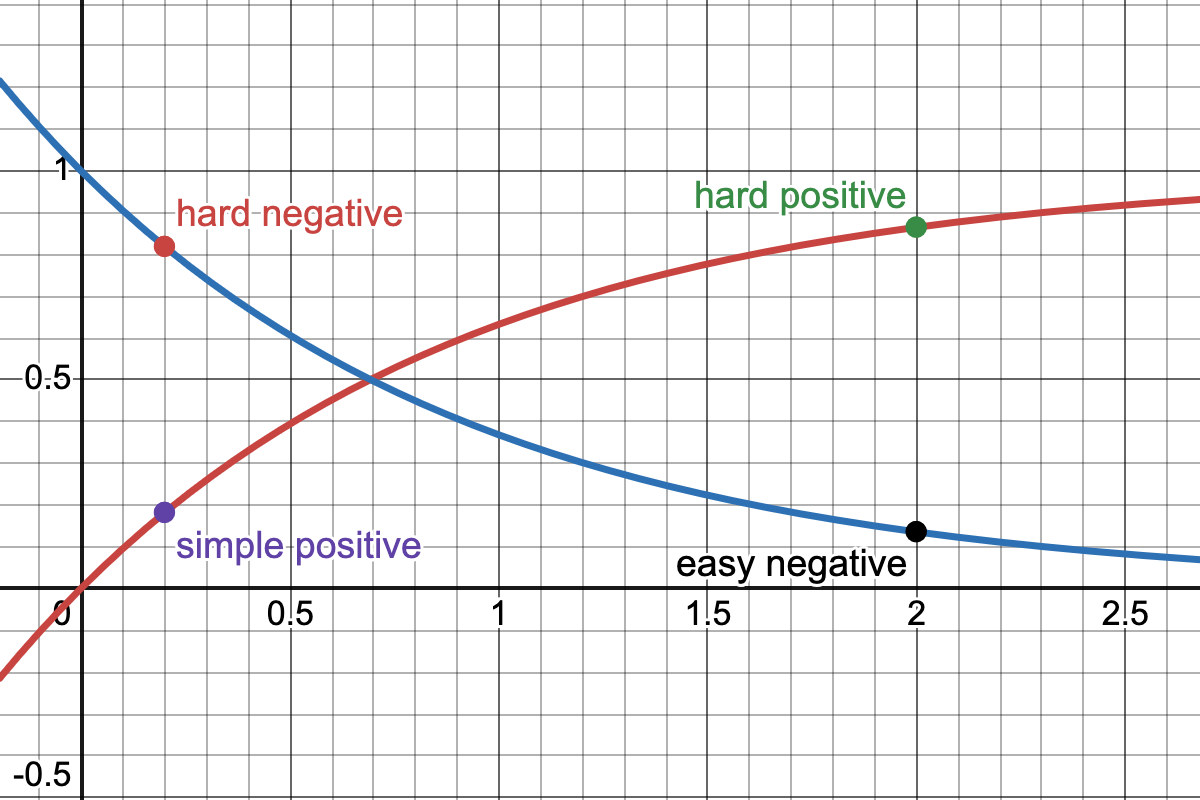
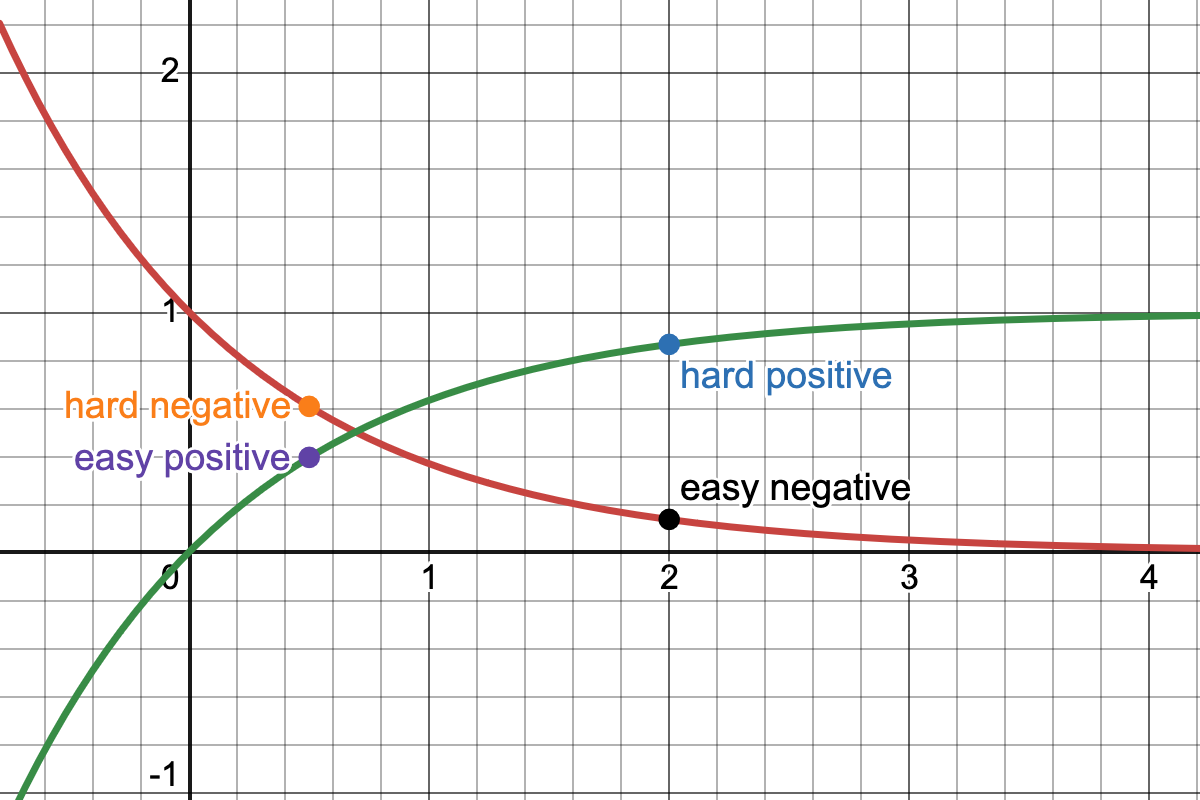
feat: Improve motivation for distance image

Changed region(s): [[0.0, 0.0, 1.0, 1.0]]

diff --git a/sections/introduction/motivation.tex b/sections/introduction/motivation.tex
@@ -19,10 +19,10 @@ leading to larger updates in the model's representation $f_{\theta}(x)$.
 
 \begin{figure}[!htb] % h = here, t = top, b = bottom, p = page of floats
     \centering
-    \includegraphics[width=280pt]{images/Hard_easy_samples_dist_effect_loss_desmos.png}
+    \includegraphics[width=280pt]{images/Hard_easy_samples_dist_effect_loss_desmos_legend.png}
     \caption{The impact of the distance between sample pairs (x-axis) on the loss function (y-axis).
-    The red curve represents the loss function for positive samples, 
-    whereas the blue curve denotes the loss function for negative samples.
+    The red curve represents the loss function for negative samples, 
+    whereas the green curve denotes the loss function for positive samples.
     Hard samples have a higher loss value and thus, convey more gradient information than easy samples.
     While distant positive pairs are considered hard, for negative samples, small proximity ones are considered hard.}
     \label{fig:hard_easy_samples_dist_effect_loss}
